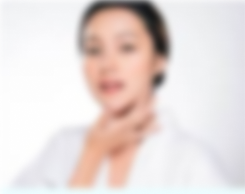
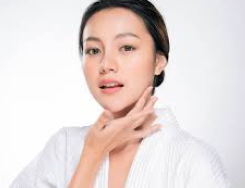
blur image dengan camanjs

diff --git a/taaruf.html b/taaruf.html
@@ -17,6 +17,7 @@
   <link
     href="https://fonts.googleapis.com/css2?family=Assistant&family=Lobster&family=Playfair+Display&family=Roboto:wght@300;400&display=swap"
     rel="stylesheet">
+
   <title>Ta'aruf App Management</title>
 </head>
 
@@ -88,7 +89,8 @@
             <div class="row">
               <div class="col-xl-4 col-lg-6 col-md-4 col-sm-6 col-10">
                 <div class="card" style="width: 18rem;">
-                  <img src="assets/images/users/user_img.png" class="card-img-top" alt="...">
+                  <img src="assets/images/users/user_img.png" data-caman="stackBlur(8)" class="card-img-top"
+                    id="render-img" alt="user image">
                   <div class="card-body">
                     <h5 class="card-title">Rika Safika</h5>
                     <p class="text-muted">Banjarmasin, 21 Tahun</p>
@@ -100,109 +102,157 @@
               </div>
               <div class="col-xl-4 col-lg-6 col-md-4 col-sm-6 col-10">
                 <div class="card" style="width: 18rem;">
-                  <img src="assets/images/users/user_img.png" class="card-img-top" alt="...">
+                  <img src="assets/images/users/user_img.png" data-caman="stackBlur(8)" class="card-img-top"
+                    id="render-img" alt="user image">
                   <div class="card-body">
                     <h5 class="card-title">Rika Safika</h5>
                     <p class="text-muted">Banjarmasin, 21 Tahun</p>
                     <p class="card-text"><strong>Tagline : </strong> Cari pria yang sholeh, baik, bisa memimpin, punya
                       pendirian, mengayomi, calon ayah yang baik</p>
-                    <a href="#" class="btn btn-sm btn-success">Lihat CV</a>
+                    <a href="detail.html" class="btn btn-sm btn-success">Lihat CV</a>
                   </div>
                 </div>
               </div>
               <div class="col-xl-4 col-lg-6 col-md-4 col-sm-6 col-10">
                 <div class="card" style="width: 18rem;">
-                  <img src="assets/images/users/user_img.png" class="card-img-top" alt="...">
+                  <img src="assets/images/users/user_img.png" data-caman="stackBlur(8)" class="card-img-top"
+                    id="render-img" alt="user image">
                   <div class="card-body">
                     <h5 class="card-title">Rika Safika</h5>
                     <p class="text-muted">Banjarmasin, 21 Tahun</p>
                     <p class="card-text"><strong>Tagline : </strong> Cari pria yang sholeh, baik, bisa memimpin, punya
                       pendirian, mengayomi, calon ayah yang baik</p>
-                    <a href="#" class="btn btn-sm btn-success">Lihat CV</a>
+                    <a href="detail.html" class="btn btn-sm btn-success">Lihat CV</a>
                   </div>
                 </div>
               </div>
               <div class="col-xl-4 col-lg-6 col-md-4 col-sm-6 col-10">
                 <div class="card" style="width: 18rem;">
-                  <img src="assets/images/users/user_img.png" class="card-img-top" alt="...">
+                  <img src="assets/images/users/user_img.png" data-caman="stackBlur(8)" class="card-img-top"
+                    id="render-img" alt="user image">
                   <div class="card-body">
                     <h5 class="card-title">Rika Safika</h5>
                     <p class="text-muted">Banjarmasin, 21 Tahun</p>
                     <p class="card-text"><strong>Tagline : </strong> Cari pria yang sholeh, baik, bisa memimpin, punya
                       pendirian, mengayomi, calon ayah yang baik</p>
-                    <a href="#" class="btn btn-sm btn-success">Lihat CV</a>
+                    <a href="detail.html" class="btn btn-sm btn-success">Lihat CV</a>
                   </div>
                 </div>
               </div>
               <div class="col-xl-4 col-lg-6 col-md-4 col-sm-6 col-10">
                 <div class="card" style="width: 18rem;">
-                  <img src="assets/images/users/user_img.png" class="card-img-top" alt="...">
+                  <img src="assets/images/users/user_img.png" data-caman="stackBlur(8)" class="card-img-top"
+                    id="render-img" alt="user image">
                   <div class="card-body">
                     <h5 class="card-title">Rika Safika</h5>
                     <p class="text-muted">Banjarmasin, 21 Tahun</p>
                     <p class="card-text"><strong>Tagline : </strong> Cari pria yang sholeh, baik, bisa memimpin, punya
                       pendirian, mengayomi, calon ayah yang baik</p>
-                    <a href="#" class="btn btn-sm btn-success">Lihat CV</a>
+                    <a href="detail.html" class="btn btn-sm btn-success">Lihat CV</a>
                   </div>
                 </div>
               </div>
               <div class="col-xl-4 col-lg-6 col-md-4 col-sm-6 col-10">
                 <div class="card" style="width: 18rem;">
-                  <img src="assets/images/users/user_img.png" class="card-img-top" alt="...">
+                  <img src="assets/images/users/user_img.png" data-caman="stackBlur(8)" class="card-img-top"
+                    id="render-img" alt="user image">
                   <div class="card-body">
                     <h5 class="card-title">Rika Safika</h5>
                     <p class="text-muted">Banjarmasin, 21 Tahun</p>
                     <p class="card-text"><strong>Tagline : </strong> Cari pria yang sholeh, baik, bisa memimpin, punya
                       pendirian, mengayomi, calon ayah yang baik</p>
-                    <a href="#" class="btn btn-sm btn-success">Lihat CV</a>
+                    <a href="detail.html" class="btn btn-sm btn-success">Lihat CV</a>
                   </div>
                 </div>
               </div>
               <div class="col-xl-4 col-lg-6 col-md-4 col-sm-6 col-10">
                 <div class="card" style="width: 18rem;">
-                  <img src="assets/images/users/user_img.png" class="card-img-top" alt="...">
+                  <img src="assets/images/users/user_img.png" data-caman="stackBlur(8)" class="card-img-top"
+                    id="render-img" alt="user image">
                   <div class="card-body">
                     <h5 class="card-title">Rika Safika</h5>
                     <p class="text-muted">Banjarmasin, 21 Tahun</p>
                     <p class="card-text"><strong>Tagline : </strong> Cari pria yang sholeh, baik, bisa memimpin, punya
                       pendirian, mengayomi, calon ayah yang baik</p>
-                    <a href="#" class="btn btn-sm btn-success">Lihat CV</a>
+                    <a href="detail.html" class="btn btn-sm btn-success">Lihat CV</a>
                   </div>
                 </div>
               </div>
               <div class="col-xl-4 col-lg-6 col-md-4 col-sm-6 col-10">
                 <div class="card" style="width: 18rem;">
-                  <img src="assets/images/users/user_img.png" class="card-img-top" alt="...">
+                  <img src="assets/images/users/user_img.png" data-caman="stackBlur(8)" class="card-img-top"
+                    id="render-img" alt="user image">
                   <div class="card-body">
                     <h5 class="card-title">Rika Safika</h5>
                     <p class="text-muted">Banjarmasin, 21 Tahun</p>
                     <p class="card-text"><strong>Tagline : </strong> Cari pria yang sholeh, baik, bisa memimpin, punya
                       pendirian, mengayomi, calon ayah yang baik</p>
-                    <a href="#" class="btn btn-sm btn-success">Lihat CV</a>
+                    <a href="detail.html" class="btn btn-sm btn-success">Lihat CV</a>
                   </div>
                 </div>
               </div>
               <div class="col-xl-4 col-lg-6 col-md-4 col-sm-6 col-10">
                 <div class="card" style="width: 18rem;">
-                  <img src="assets/images/users/user_img.png" class="card-img-top" alt="...">
+                  <img src="assets/images/users/user_img.png" data-caman="stackBlur(8)" class="card-img-top"
+                    id="render-img" alt="user image">
                   <div class="card-body">
                     <h5 class="card-title">Rika Safika</h5>
                     <p class="text-muted">Banjarmasin, 21 Tahun</p>
                     <p class="card-text"><strong>Tagline : </strong> Cari pria yang sholeh, baik, bisa memimpin, punya
                       pendirian, mengayomi, calon ayah yang baik</p>
-                    <a href="#" class="btn btn-sm btn-success">Lihat CV</a>
+                    <a href="detail.html" class="btn btn-sm btn-success">Lihat CV</a>
                   </div>
                 </div>
               </div>
               <div class="col-xl-4 col-lg-6 col-md-4 col-sm-6 col-10">
                 <div class="card" style="width: 18rem;">
-                  <img src="assets/images/users/user_img.png" class="card-img-top" alt="...">
+                  <img src="assets/images/users/user_img.png" data-caman="stackBlur(8)" class="card-img-top"
+                    id="render-img" alt="user image">
                   <div class="card-body">
                     <h5 class="card-title">Rika Safika</h5>
                     <p class="text-muted">Banjarmasin, 21 Tahun</p>
                     <p class="card-text"><strong>Tagline : </strong> Cari pria yang sholeh, baik, bisa memimpin, punya
                       pendirian, mengayomi, calon ayah yang baik</p>
-                    <a href="#" class="btn btn-sm btn-success">Lihat CV</a>
+                    <a href="detail.html" class="btn btn-sm btn-success">Lihat CV</a>
+                  </div>
+                </div>
+              </div>
+              <div class="col-xl-4 col-lg-6 col-md-4 col-sm-6 col-10">
+                <div class="card" style="width: 18rem;">
+                  <img src="assets/images/users/user_img.png" data-caman="stackBlur(8)" class="card-img-top"
+                    id="render-img" alt="user image">
+                  <div class="card-body">
+                    <h5 class="card-title">Rika Safika</h5>
+                    <p class="text-muted">Banjarmasin, 21 Tahun</p>
+                    <p class="card-text"><strong>Tagline : </strong> Cari pria yang sholeh, baik, bisa memimpin, punya
+                      pendirian, mengayomi, calon ayah yang baik</p>
+                    <a href="detail.html" class="btn btn-sm btn-success">Lihat CV</a>
+                  </div>
+                </div>
+              </div>
+              <div class="col-xl-4 col-lg-6 col-md-4 col-sm-6 col-10">
+                <div class="card" style="width: 18rem;">
+                  <img src="assets/images/users/user_img.png" data-caman="stackBlur(8)" class="card-img-top"
+                    id="render-img" alt="user image">
+                  <div class="card-body">
+                    <h5 class="card-title">Rika Safika</h5>
+                    <p class="text-muted">Banjarmasin, 21 Tahun</p>
+                    <p class="card-text"><strong>Tagline : </strong> Cari pria yang sholeh, baik, bisa memimpin, punya
+                      pendirian, mengayomi, calon ayah yang baik</p>
+                    <a href="detail.html" class="btn btn-sm btn-success">Lihat CV</a>
+                  </div>
+                </div>
+              </div>
+              <div class="col-xl-4 col-lg-6 col-md-4 col-sm-6 col-10">
+                <div class="card" style="width: 18rem;">
+                  <img src="assets/images/users/user_img.png" data-caman="stackBlur(8)" class="card-img-top"
+                    id="render-img" alt="user image">
+                  <div class="card-body">
+                    <h5 class="card-title">Rika Safika</h5>
+                    <p class="text-muted">Banjarmasin, 21 Tahun</p>
+                    <p class="card-text"><strong>Tagline : </strong> Cari pria yang sholeh, baik, bisa memimpin, punya
+                      pendirian, mengayomi, calon ayah yang baik</p>
+                    <a href="detail.html" class="btn btn-sm btn-success">Lihat CV</a>
                   </div>
                 </div>
               </div>
@@ -268,6 +318,9 @@
     </div>
 
   </footer>
+  <!-- camanjs -->
+  <script src="https://cdnjs.cloudflare.com/ajax/libs/camanjs/3.3.0/caman.full.min.js" />
+  </script>
   <script src="https://cdn.jsdelivr.net/npm/jquery@3.5.1/dist/jquery.slim.min.js"
     integrity="sha384-DfXdz2htPH0lsSSs5nCTpuj/zy4C+OGpamoFVy38MVBnE+IbbVYUew+OrCXaRkfj" crossorigin="anonymous">
   </script>

diff --git a/detail.html b/detail.html
@@ -74,8 +74,8 @@
               <div class="cv__profile">
                 <h4 class="cv__nama">Riska</h4>
                 <div class="row">
-                  <div class="col-xl-5 col-lg-5 profile__image">
-                    <img src="assets/images/users/user_img.png" alt="user image">
+                  <div class="col-xl-5 col-lg-5 col-md-6 col-sm-8 col-xs-8 profile__image">
+                    <img src="assets/images/users/user_img.png" data-caman="stackBlur(8)" alt="user image">
                   </div>
                   <div class="col-xl-7 col-lg-7 col-md-12 profile__detail">
                     <p><strong>Nama Panggilan : </strong>Riska</p>
@@ -188,6 +188,9 @@
     </div>
 
   </footer>
+  <!-- camanjs -->
+  <script src="https://cdnjs.cloudflare.com/ajax/libs/camanjs/3.3.0/caman.full.min.js" />
+  </script>
   <script src="https://cdn.jsdelivr.net/npm/jquery@3.5.1/dist/jquery.slim.min.js"
     integrity="sha384-DfXdz2htPH0lsSSs5nCTpuj/zy4C+OGpamoFVy38MVBnE+IbbVYUew+OrCXaRkfj" crossorigin="anonymous">
   </script>

diff --git a/assets/styles/main.css b/assets/styles/main.css
@@ -115,6 +115,9 @@ main .content .card {
 main .content .card img {
   width: 100%;
   height: 200px;
+  -webkit-filter: blur(8px);
+          filter: blur(8px);
+  margin-bottom: 5px;
 }
 
 main .content .card .card-body {
@@ -141,7 +144,7 @@ main .content .card .card-body p.card-text {
 }
 
 main .content .card .card-body a {
-  margin-top: 15px;
+  margin-top: 10px;
   margin-left: 65%;
 }
 
@@ -181,6 +184,8 @@ main .section__detail__content .detail__cv .cv__profile {
 main .section__detail__content .detail__cv .cv__profile .profile__image img {
   margin-bottom: 20px;
   width: 100%;
+  -webkit-filter: blur(8px);
+          filter: blur(8px);
 }
 
 main .section__detail__content .detail__cv .cv__profile .profile__detail p {

diff --git a/assets/styles/main.scss b/assets/styles/main.scss
@@ -111,6 +111,8 @@ main {
       img {
         width: 100%;
         height: 200px;
+        filter: blur(8px);
+        margin-bottom: 5px;
       }
       .card-body {
         margin: 0;
@@ -133,7 +135,7 @@ main {
         }
 
         a {
-          margin-top: 15px;
+          margin-top: 10px;
           margin-left: 65%;
         }
       }
@@ -172,6 +174,7 @@ main {
           img {
             margin-bottom: 20px;
             width: 100%;
+            filter: blur(8px);
           }
         }
 

diff --git a/index.html b/index.html
@@ -172,6 +172,9 @@
         </div>
 
     </footer>
+    <!-- camanjs -->
+    <script src="https://cdnjs.cloudflare.com/ajax/libs/camanjs/3.3.0/caman.full.min.js" />
+    </script>
     <script src="https://cdn.jsdelivr.net/npm/jquery@3.5.1/dist/jquery.slim.min.js"
         integrity="sha384-DfXdz2htPH0lsSSs5nCTpuj/zy4C+OGpamoFVy38MVBnE+IbbVYUew+OrCXaRkfj" crossorigin="anonymous">
     </script>

diff --git a/check.html b/check.html
@@ -140,6 +140,9 @@
     </div>
 
   </footer>
+  <!-- camanjs -->
+  <script src="https://cdnjs.cloudflare.com/ajax/libs/camanjs/3.3.0/caman.full.min.js" />
+  </script>
   <script src="https://cdn.jsdelivr.net/npm/jquery@3.5.1/dist/jquery.slim.min.js"
     integrity="sha384-DfXdz2htPH0lsSSs5nCTpuj/zy4C+OGpamoFVy38MVBnE+IbbVYUew+OrCXaRkfj" crossorigin="anonymous">
   </script>

diff --git a/success.html b/success.html
@@ -87,6 +87,9 @@
     </div>
 
   </footer>
+  <!-- camanjs -->
+  <script src="https://cdnjs.cloudflare.com/ajax/libs/camanjs/3.3.0/caman.full.min.js" />
+  </script>
   <script src="https://cdn.jsdelivr.net/npm/jquery@3.5.1/dist/jquery.slim.min.js"
     integrity="sha384-DfXdz2htPH0lsSSs5nCTpuj/zy4C+OGpamoFVy38MVBnE+IbbVYUew+OrCXaRkfj" crossorigin="anonymous">
   </script>
